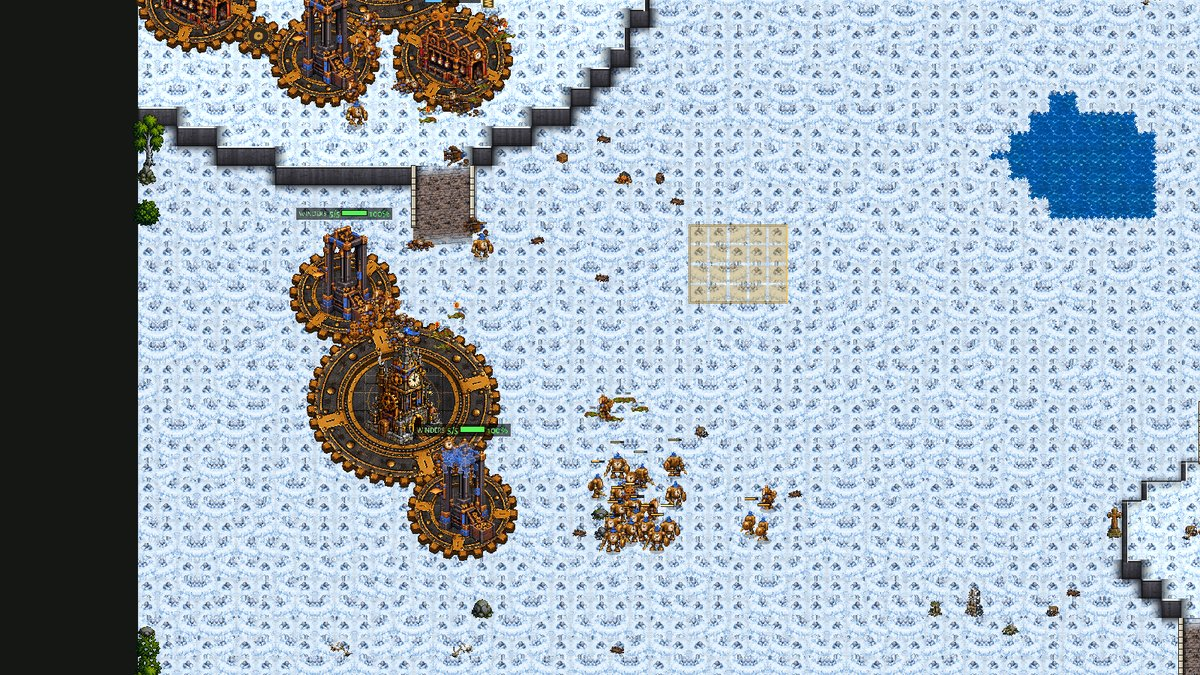
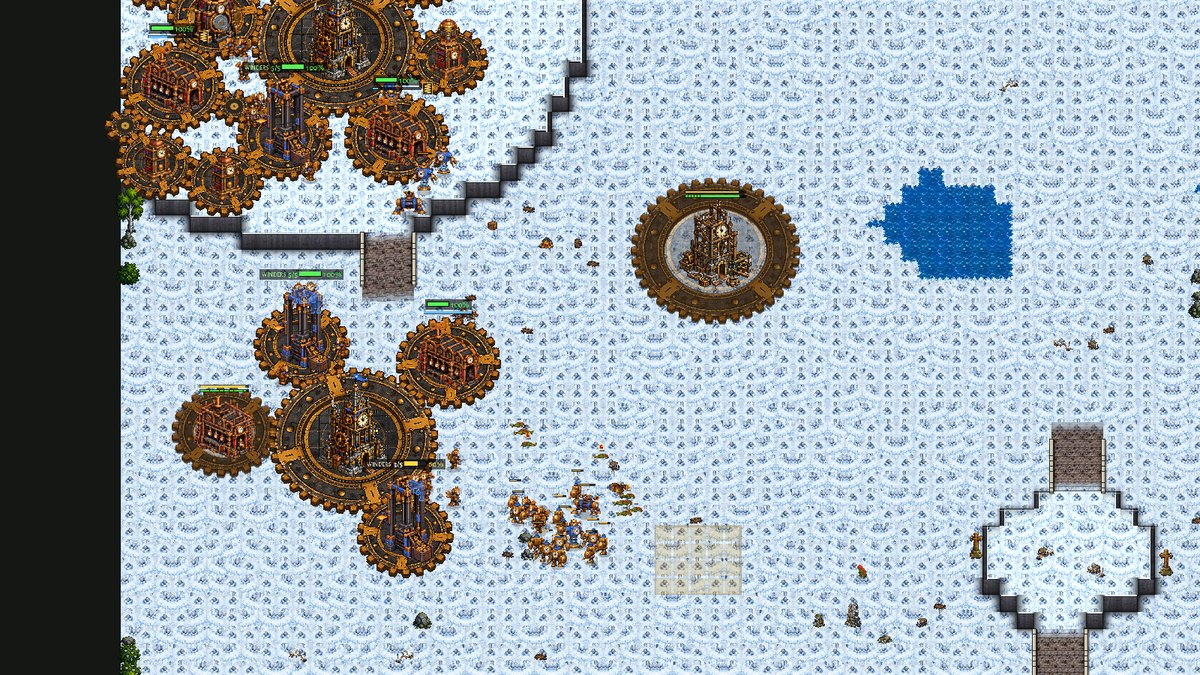
clockwork-army: the muster is off by default (measured worse), final pictures
Claude-Session: https://claude.ai/code/session_01NtmEZhP1uA8k4DLQ7BYfMz

diff --git a/docs/shots/clockwork_army/captions.md b/docs/shots/clockwork_army/captions.md
@@ -1,19 +1,22 @@
 # clockwork-army pictures
 
 Filmed with tools/film_clockwork_army.gd (Frostfang, seed 11, Hard against Hard; the "before" game with `cwarmy:off`).
-The film's games are not the test games: the same map and seed play a little differently each run.
+A film's game is not a test game: the same map and seed play a little differently each run. Pictures 03 to 06 and 11 are
+from the final code; 08 to 10 (the Pendulum plan) were filmed earlier in the job, before the last three changes (the bar
+after a failed push, the muster of reinforcements, the opening's soldier step), which do not change what they show.
 
 1. `01_owner_0638_army_split.jpg`: the owner's picture (0.31.0, 6:38): the Pendulum and the Springers by the second
    base's Works, a few soldiers elsewhere, the Winders fighting riders alone.
 2. `02_before_0640_army_spread_over_the_main.jpg`: the old code at 6:40, framed on every Clockwork fighter: soldiers and
    Springers spread over the main and its ramp, a few by the second base.
 3. `03_after_0640_one_army_at_its_gathering_point.jpg`: the one army at 6:40, the same game time: every fighter together
-   in front of the Clocktower nearest the enemy.
-4. `04_after_0900_whole_army_meets_the_raptors.jpg`: 9:00, a Raptor raid on the second base met by the whole army; the
-   Raptors' bodies lie in front of it.
-5. `05_after_0838_the_raid_met_together.jpg`: 8:38, the army fights a raid as one block.
-6. `06_after_0955_the_push_goes_out_over_the_raptors.jpg`: 9:55, the push of 35 that went out at 9:40, worth more than
-   the Brood army it reckoned, over the Raptors it killed on the way.
+   in front of the Clocktower nearest the enemy, the Raptors of a raid lying in front of it.
+4. `04_after_0821_springers_jump_in_as_the_front_engages.jpg`: 8:21, the push (15 Clock Soldiers, 10 Springers) meets the
+   Raptors by the second base; Springers have jumped in to shooting reach behind the front.
+5. `05_after_0900_the_push_out_toward_the_brood.jpg`: 9:00, the push out on the way to the Brood's Rootmaws, framed with
+   the whole base.
+6. `06_v_crown_0530_together_before_it_goes.jpg`: against the Crown (Economy against Economy), 5:30: the army together at
+   its gathering point, just before its first push.
 7. `07_before_0817_soldiers_and_springers_strung_out.jpg`: the old code at 8:17: Clock Soldiers and Springers strung out
    in a line toward the Brood's swarm.
 8. `08_pendulums_0606_the_push_at_a_rootmaw.jpg`: the Pendulum plan's push at 6:06: Pendulums, Clock Soldiers and a
@@ -21,7 +24,5 @@ The film's games are not the test games: the same map and seed play a little dif
 9. `09_pendulums_0719_netter_and_pendulums_in_the_nest.jpg`: 7:19, the push in the Brood's swamp: the Netter's net on the
    ground, the Pendulums with the Clock Soldiers.
 10. `10_pendulum_push.gif`: the Pendulum plan's push from 5:45 to 8:20, every 6 s.
-11. `11_v_crown_0838_the_push_through_the_crown_gate.jpg`: against the Crown (Economy against Economy), the push breaks the
-    gate of the Crown's natural and goes through as one block.
-12. `12_v_crown_0530_together_before_it_goes.jpg`: 5:30 against the Crown: the army together at its gathering point, just
-    before it goes out.
+11. `11_v_crown_0935_the_push_at_the_crown_natural_gate.jpg`: against the Crown, 9:35: the push breaks into the Crown's
+    natural through its gate, the Crown's fallen Musketeers in front of it; the rest of the block waits behind.

diff --git a/docs/clockwork_army.md b/docs/clockwork_army.md
@@ -59,6 +59,10 @@ guard, detachments and rally no longer take any of it.
   over, or when a defender is led 16 tiles from the buildings, they walk back to the gathering point. If the whole army is
   worth less than 55% of a raid away from the main, it does not walk into it: it holds together at the main's gate.
   Unarmed scouts and loose workers are left to the Winders and the turrets.
+- **Reinforcements walk together.** A unit made far from the gathering point (20 tiles or more, in the main's Works when
+  the army stands at a newer Clocktower) first waits at a muster point in front of the main hall. They walk to the army
+  as a group of three or more (or 6 supply), or after 50 s of waiting. One at a time across the base they met the Raptor
+  raids alone: 16 times in one game on Cinder Steps.
 - **No fighter scouts.** The scout's second and later trips take a Swift if there is one, else a Winder, never a ground
   fighter.
 
@@ -133,7 +137,7 @@ last steps.
 
 - `tools/test_clockwork_army.gd`: one game, measured. `check:1` is the test (Frostfang, the Hard Economy Clockwork against
   the Hard Brood Economy, until:600): at most 2 fights alone away from home, at most 2 first fights alone away from home,
-  and the Winders with the army (2 or more on average while it is out). `cwarmy:off` plays the old army code.
+  and the Winders with the army (1.5 or more on average while it is out). `cwarmy:off` plays the old army code.
 - `tools/clockwork_army_report.py`: the tables above from the test's json lines.
 - `tools/film_clockwork_army.gd`: a filmed game (the army at set times, the push, the Springers' jumps, GIF frames).
 - The old tests still pass: test_clockwork_eco, test_clockwork_builds_a (Clock Soldier rush and turtle),
